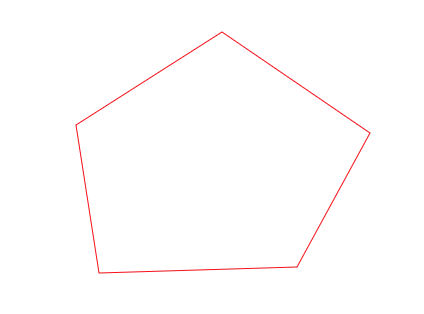
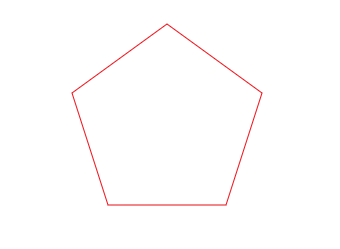
add samples to cs3

diff --git a/doc/CS3.md b/doc/CS3.md
@@ -37,40 +37,33 @@ Learning Coding with LeapLearner
 和其他图形类似，点的位置可以在坐标轴上，用x坐标和y坐标确定出来。
 
 ```javascript
-var p = new Point(100, 100);
+canvas.showAxis(); // 显示坐标轴
+var p = new Point(150, 50);
 p.draw();
 ```
+
+在点的参数中，第一个坐标`150`是x坐标，也就是横坐标，在水平方向上，找到150的位置，它位于100和200的中间。第二个坐标50是y坐标，也就是纵坐标，在垂直方向上，找到50的位置，它位于0和100的中间。这两个坐标确定了点的位置，最后我们用`draw`方法把点绘制在画布上，就得到了下面的结果。
+
+![point](./images/cs3_point.png)
 
 点的颜色可以通过点的`fillStyle`属性来设置，通过设置不同的样式，画出来的点可以有不一样的颜色。
 
 ```javascript
+canvas.showAxis(); // 显示坐标轴
+var p = new Point(150, 50);
 p.fillStyle = "green";
 p.draw();
 ```
+
+通过修改点的颜色，我们就在同样的位置画出了一个绿色的的点。
+
+![point2](./images/cs3_point2.png)
 
 **练习**
 
 * 在坐标轴上画出以下点的位置：（100，100）
 * 在坐标轴上读取点的位置
 * 如果点从100，100均匀移动到了200，200，它是怎么移动的呢
-
-**实例：连点成线**
-
-在下面的例子中，我们用点来模拟一条线段。在这里，我们定义了一个line函数，line函数是从(x1,y1)画到(x1+100, y1)。我们使用了一个循环来绘制这100个点，
-
-```javascript
-var p = new Point();
-
-function line(x1, y1){
-  for(var i=0; i<100; i++){
-    p.x = i + x1;
-  	p.y = y1;
-  	p.draw();
-  }
-}
-
-line(100, 100);
-```
 
 **实例：点点点**
 
@@ -103,6 +96,10 @@ Mouse.click = function(){
 };
 ```
 
+运行项目，在画布上点击鼠标，看看会不会留下痕迹。
+
+![](./images/cs3_points3.png)
+
 **实例：点点点II**
 
 在上面的例子中，我们希望能够简单的按下鼠标就可以画出来，而不是一直要点击鼠标。我们可以把click事件修改为move事件，来试一试。
@@ -110,18 +107,27 @@ Mouse.click = function(){
 ```javascript
 var p = new Point(100, 100);
 
-Mouse.click = function(){
+Mouse.move = function(){
     p.x = Mouse.x;
     p.y = Mouse.y;
     p.draw();
 };
 ```
 
+点击运行，然后将鼠标在画布上移动，就会留下各种个样的轨迹。如果不满意当前的图像，重新运行就可以清空屏幕上的图像了。
+
+![](./images/cs3_points4.png)
+
 看起来好像达到我们的要求了，美中不足的时只要鼠标移动，就会自动在画布上留下很多我们不希望看到的点。
 
-我们可以这么设计，如果我按住鼠标，就留下痕迹，如果我松开鼠标，就不留下痕迹。
+**想一想：**
 
-为了达到这个要求，我们先定义一个变量clicked，如果这个变量的值为true，那么移动鼠标时就留下痕迹，反之，则不留下痕迹。
+* 画画、写字和点点点有什么不一样的地方呢
+* 如何避免一直留下痕迹
+
+为了模拟画笔的动作，我们可以这么设计，如果我按住鼠标，就留下痕迹，如果我松开鼠标，就不留下痕迹。
+
+为了达到这个要求，我们先定义一个变量`clicked`，如果这个变量的值为`true`，那么移动鼠标时就留下痕迹，反之，则不留下痕迹。
 
 ```javascript
 var clicked = false;
@@ -135,7 +141,26 @@ Mouse.move = function(){
 }
 ```
 
-接下来，但我们按下鼠标的时候，让这个值变为true，不要忘了，当松开鼠标的时候，让这个值变回为false
+接下来，但我们按下鼠标的时候，让这个值变为`true`，当松开鼠标的时候，让这个值变回为`false`。
+
+```javascript
+Mouse.down = function(){ clicked = true; };
+Mouse.up = function(){ clicked = false; };
+```
+
+如果`clicked`是`true`，才开始画画。
+
+```javascript
+Mouse.move = function(){
+    if(clicked){
+      p.x = Mouse.x;
+      p.y = Mouse.y;
+      p.draw();
+    }
+}
+```
+
+我们把代码合在一起了，快看看你的的代码是不是和下面的代码一样。
 
 ```javascript
 var p = new Point();
@@ -153,6 +178,14 @@ Mouse.move = function(){
     }
 }
 ```
+
+画笔已经就位，我们来用它写首诗试一试，写的慢，可以写出连续的笔划，写的快，笔划就会变成一个个点，也是别有一番意境呢。
+
+![points4](./images/cs3_point4.png)
+
+**比一比**
+
+* 看看谁写的字更好看
 
 **实例：点点点III**
 
@@ -198,7 +231,39 @@ rect.click = function(){
 }
 ```
 
-好了，接下来，我们可以添加更多的颜色上去了。
+运行项目，先用鼠标画出一条红色的线条，再点击绿色矩形，就可以用鼠标画出一条绿色的线条了。
+
+![point5](./images/cs3_point5.png)
+
+好了，接下来，我们可以添加更多的颜色上去了，快动手试一试吧。
+
+**试一试**
+
+* 完成点点点项目
+* 为点点点项目添加更多的颜色
+
+**实例：连点成线**
+
+在下面的例子中，我们用点来模拟一条线段。在这里，我们定义了一个main函数，main函数每一次都会在点的右下方画出一个新的点出来。
+
+```javascript
+var p = new Point(50, 50);
+
+function main(){
+    p.x += 2;
+    p.y += 1;
+    p.draw();
+    nextFrame(main);
+}
+
+main();
+```
+
+我们就可以利用点在画布上画出一条不断延长的线了。
+
+![](images/cs3_point_line.png)
+
+当然了，我们有更好的办法可以画出线条来。下面我们就来学学怎么用Line来定义线条。
 
 ### 线段
 
@@ -208,7 +273,7 @@ rect.click = function(){
 var line = new Line(x1, y1, x2, y2)
 ```
 
-定义后，我们就获得了line这个对象，通过修改line的属性，我们就可以改变线条的位置、样式以及它的宽度。
+定义后，我们就获得了`line`这个对象，通过修改line的属性，我们就可以改变线条的位置、样式以及它的宽度。
 
 线条有比较多的属性值，修改线条的位置是一件非常容易出错的事情，要特别的小心。
 
@@ -239,6 +304,10 @@ line.draw();
 
 注意的是，和其他图形不一样的是，线条是没有面积的，因此是没有`fill`方法的。
 
+**例子：用线条来绘制五角星**
+
+
+
 ### 多边形
 
 ```javascript
@@ -253,11 +322,11 @@ polygon.draw();
 我们先在纸上画出一个凸五边形，找出五边形5个点的坐标，依次将他们赋值给我们的多边形，在画布上画出来后，就可以看到一个五边形了。注意，我们找的点一点要按照按照顺时针或者逆时针的顺序输入。
 
 ```javascript
-var polygon = new Polygon(278, 100, // 1
-                          132, 193,	// 2
-                          155, 341, // 3
-                          353, 335, // 4
-                          426, 201  // 5
+var polygon = new Polygon(200, 100,  // 1
+                          105, 169,  // 2
+                          141, 281,	 // 3
+                          259, 281,	 // 4
+                          295, 169   // 5
                          );
 polygon.strokeStyle = "red";
 polygon.stroke();
@@ -272,13 +341,15 @@ polygon.stroke();
 同样的五个点，如果按照不同的顺序来，会画出不一样的图形来。接下来我们试着将点的顺序改变一下，按照1、3、5、2、4的顺序来画出这个五边形，观察下结果。
 
 ```javascript
-var polygon = new Polygon(268, 105,  // 1
-                          123, 341,	 // 3
-                          426, 201,  // 5
-                          132, 193,  // 2	
-                          353, 335	 // 4
-                         )
-polygon.draw();
+var polygon = new Polygon(200, 100,  // 1
+                          141, 281,	 // 3
+                          295, 169,  // 5
+                          105, 169,  // 2	
+                          259, 281	 // 4
+                         );
+
+polygon.fillStyle = 'yellow';
+polygon.fill();
 ```
 
 五边形变成了一个五角星了！
@@ -321,12 +392,6 @@ moutain2.fill();
 最后我们的作品就出来了，可以打印出来挂在墙上哦
 
 ![](./images/cs3_moutains.png)
-
-## 代码结构
-
-### 代码执行顺序
-
-
 
 ## 变量
 
@@ -488,6 +553,48 @@ s.draw();
 
 **例子：记录坐标**
 
+我们在绘制图形的时候，总是要设定很多的坐标值，坐标多了就容易混淆，我们就来做一个项目，可以记录画布上的坐标值。
+
+第一步，创建一个Point对象和Text对象
+
+```javascript
+var p = new Point();
+var text = new Text();
+```
+
+增加一个鼠标点击事件，当鼠标点击的时候，显示点的位置和文字。
+
+```javascript
+Mouse.click = function(){
+	// draw point
+  	// write text
+}
+```
+
+接下来，在点击的时候，在鼠标的位置把点还有字符串显示出来。字符串是有x坐标和y坐标构成的，为了区分他们，我们在他们中间加上个逗号
+
+```javascript
+text.src = Mouse.x + ", " + Mouse.y;
+```
+
+除了让点的位置等于鼠标的位置外，记的让文字的位置也和鼠标的位置一样。
+
+```javascript
+p.x = Mouse.x;
+p.y = Mouse.y;
+text.x = Mouse.x;
+text.y = Mouse.y;
+```
+
+使用draw方法将点和文字绘制到画布上。
+
+```javascript
+p.draw();
+text.draw();
+```
+
+最后，附上完整的代码。
+
 ```javascript
 var p = new Point();
 var text = new Text();
@@ -504,7 +611,9 @@ Mouse.click = function(){
 }
 ```
 
+运行项目，点击画布上任意一个位置，就会留下坐标值了。是不是可以方面的记录每个点的坐标值了。
 
+![](./images/cs3_string.png)
 
 #### 空格
 
